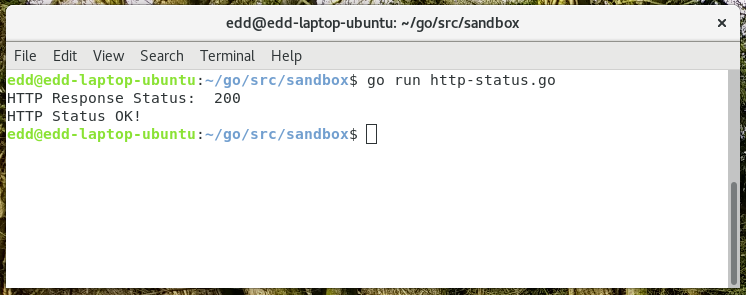
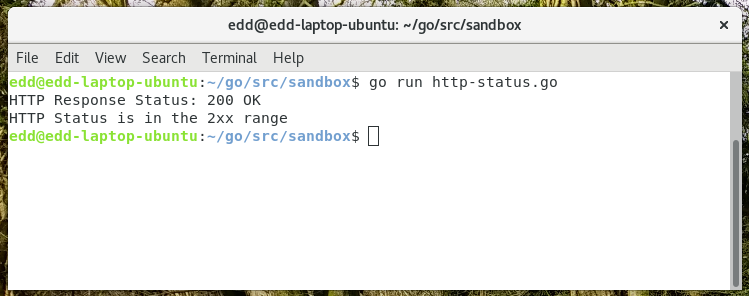
Another update to http status codes (improve code, text and image) :innocent:

Changed region(s): [[0.0, 0.0, 1.0, 1.0]]

diff --git a/content/posts/2017-08-06-get-response-status-code.md b/content/posts/2017-08-06-get-response-status-code.md
@@ -12,12 +12,14 @@ tags:
   - response
   - status
   - code
-  - error handling
+  - error-handling
+  - constant
+  - StatusText
 ---
 
-When making http requests with Go it is almost always necessary to check the status code of the response which is returned. Generally if the status code is between 200 and 300 you should receive a successful response. But anything except a 200-300 status, we often need to handle.
+When making http requests with Go it is almost always necessary to check the status code of the response which is returned. Generally, if the status code is between 200 and 300 you can treat as successful. But anything except a 200-300 status, we often need to handle.
 
-<!--more-->
+Go has many built methods to help us with this. For example, we can use `http.StatusText()` to convert the status code to it's human readable name. Likewise, if we need to reference a http status code Go has constants for them, so we could say `if resp.StatusCode == http.StatusNotFound`.
 
 ```go
 package main
@@ -35,10 +37,11 @@ func main() {
         log.Fatal(err)
     }
 
-    fmt.Println("HTTP Response Status:", resp.StatusCode)
+    // Print the HTTP Status Code and Status Name
+    fmt.Println("HTTP Response Status:", resp.StatusCode, http.StatusText(resp.StatusCode))
 
     if resp.StatusCode >= 200 && resp.StatusCode <= 299 {
-        fmt.Println("HTTP Status OK!")
+        fmt.Println("HTTP Status is in the 2xx range")
     } else {
         fmt.Println("Argh! Broken")
     }
